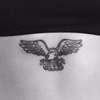
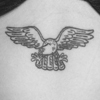
new mask & healed pidge

diff --git a/uncategorized.html b/uncategorized.html
@@ -172,6 +172,14 @@ Uncategorized Work
 	</p>
 	
 	
+	<a href="images/mask.jpg" title="Mask for Sam Hanson" rel="lightbox[uncategorized]">
+<img src="images/thumbs/mask_th.jpg" width = "100" title="Shortcut Gallery" border="0"/></a>
+
+
+	<p class="muchtext">
+	<b>Mask for Sam Hanson: </b>A mask I made for Sam Hanson of <a href="https://departmentofeverything.bandcamp.com/">Department of Everything</a>.  Modified, ventilated gas mask and dynamic microphone.  Photograph thanks to <a href="https://www.facebook.com/JamesAlchemyPVD/">James Lastowski</a>. 2016, Boston.
+	</p>
+	
 	
 	<!--Repair Module-->		
 
